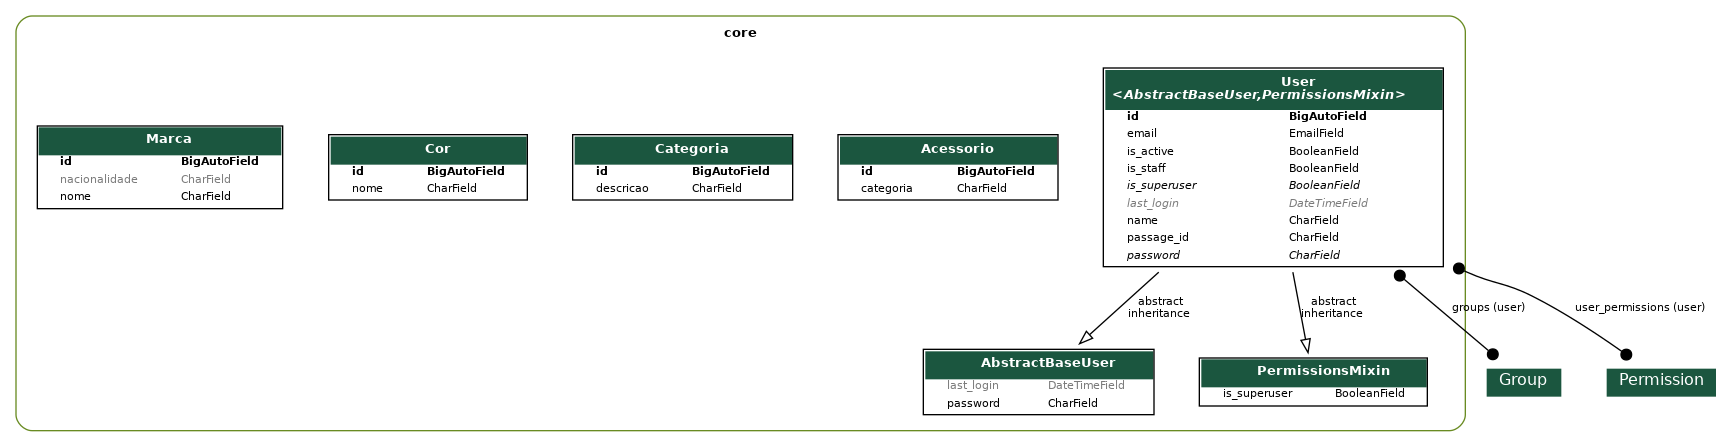
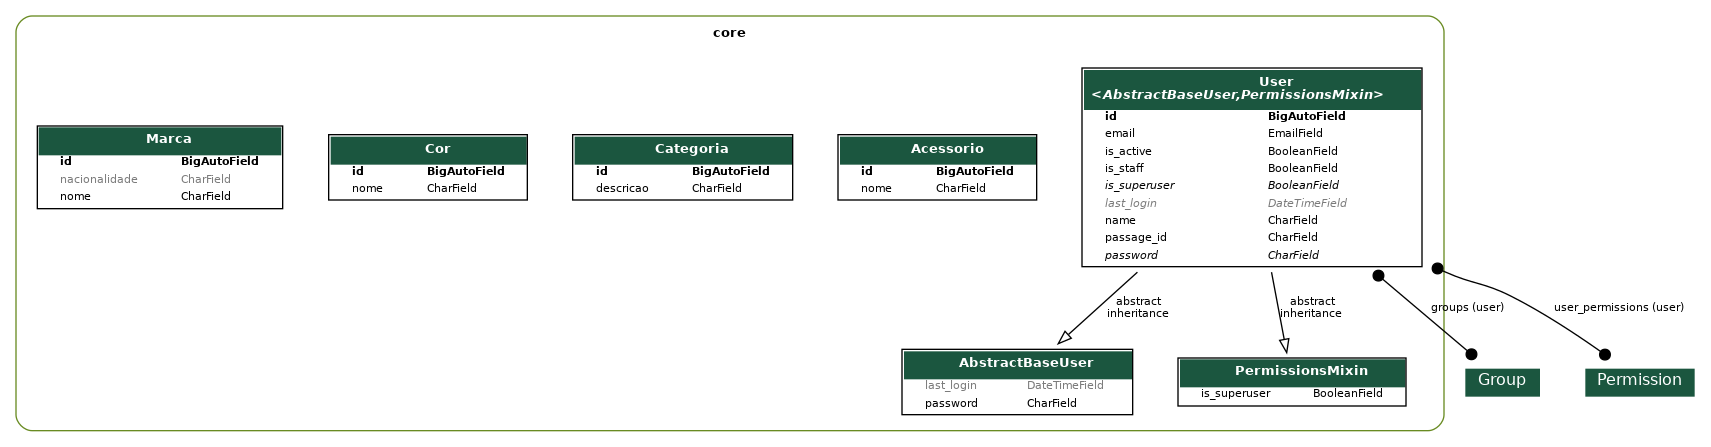
Ajustes finais de funcionamento de acessorio

diff --git a/core/migrations/0007_rename_categoria_acessorio_nome.py b/core/migrations/0007_rename_categoria_acessorio_nome.py
@@ -1,0 +1,18 @@
+# Generated by Django 5.0.6 on 2024-07-19 11:17
+
+from django.db import migrations
+
+
+class Migration(migrations.Migration):
+
+    dependencies = [
+        ("core", "0006_alter_cor_options_alter_marca_nacionalidade"),
+    ]
+
+    operations = [
+        migrations.RenameField(
+            model_name="acessorio",
+            old_name="categoria",
+            new_name="nome",
+        ),
+    ]

diff --git a/core/models/acessorio.py b/core/models/acessorio.py
@@ -2,7 +2,7 @@ from django.db import models
 
 
 class Acessorio(models.Model):
-    categoria = models.CharField(max_length=100)
+    nome = models.CharField(max_length=100)
 
     def __str__(self):
-        return f"{self.categoria} + ({self.id})"
+        return f"{self.nome} + ({self.id})"
